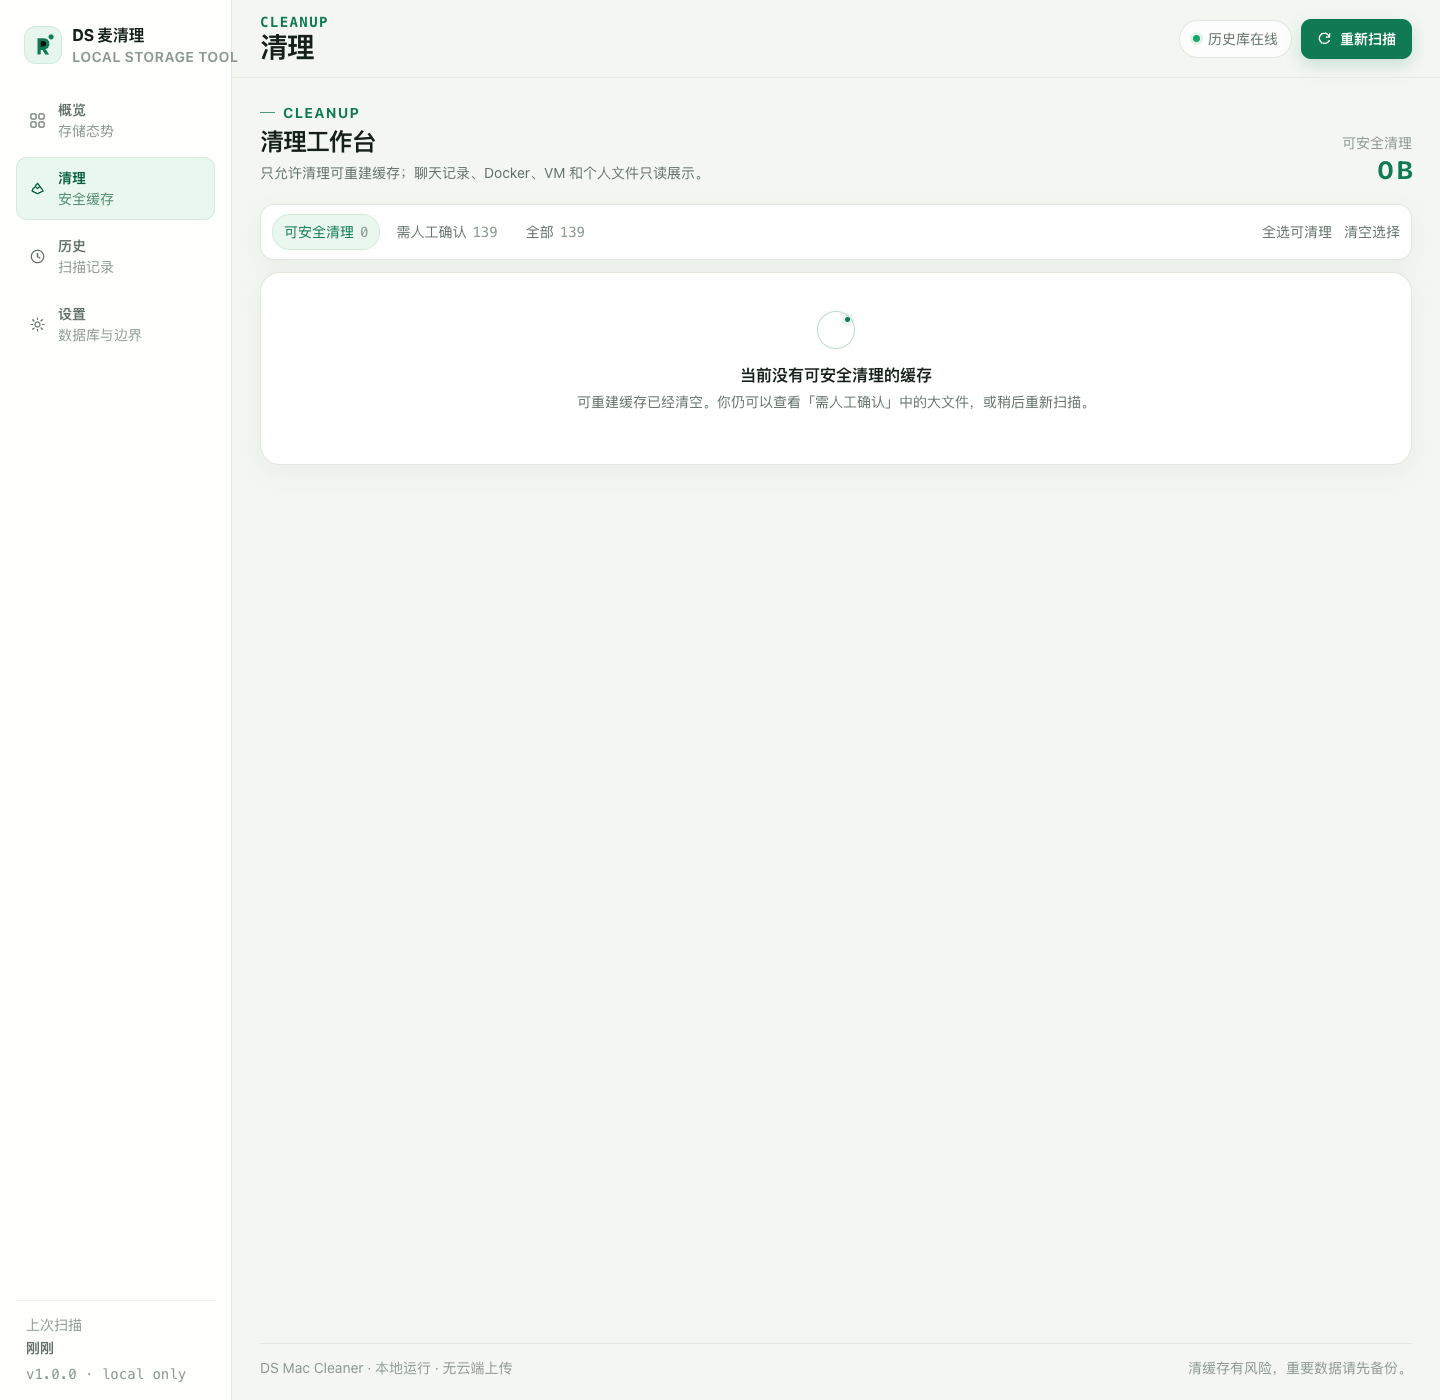
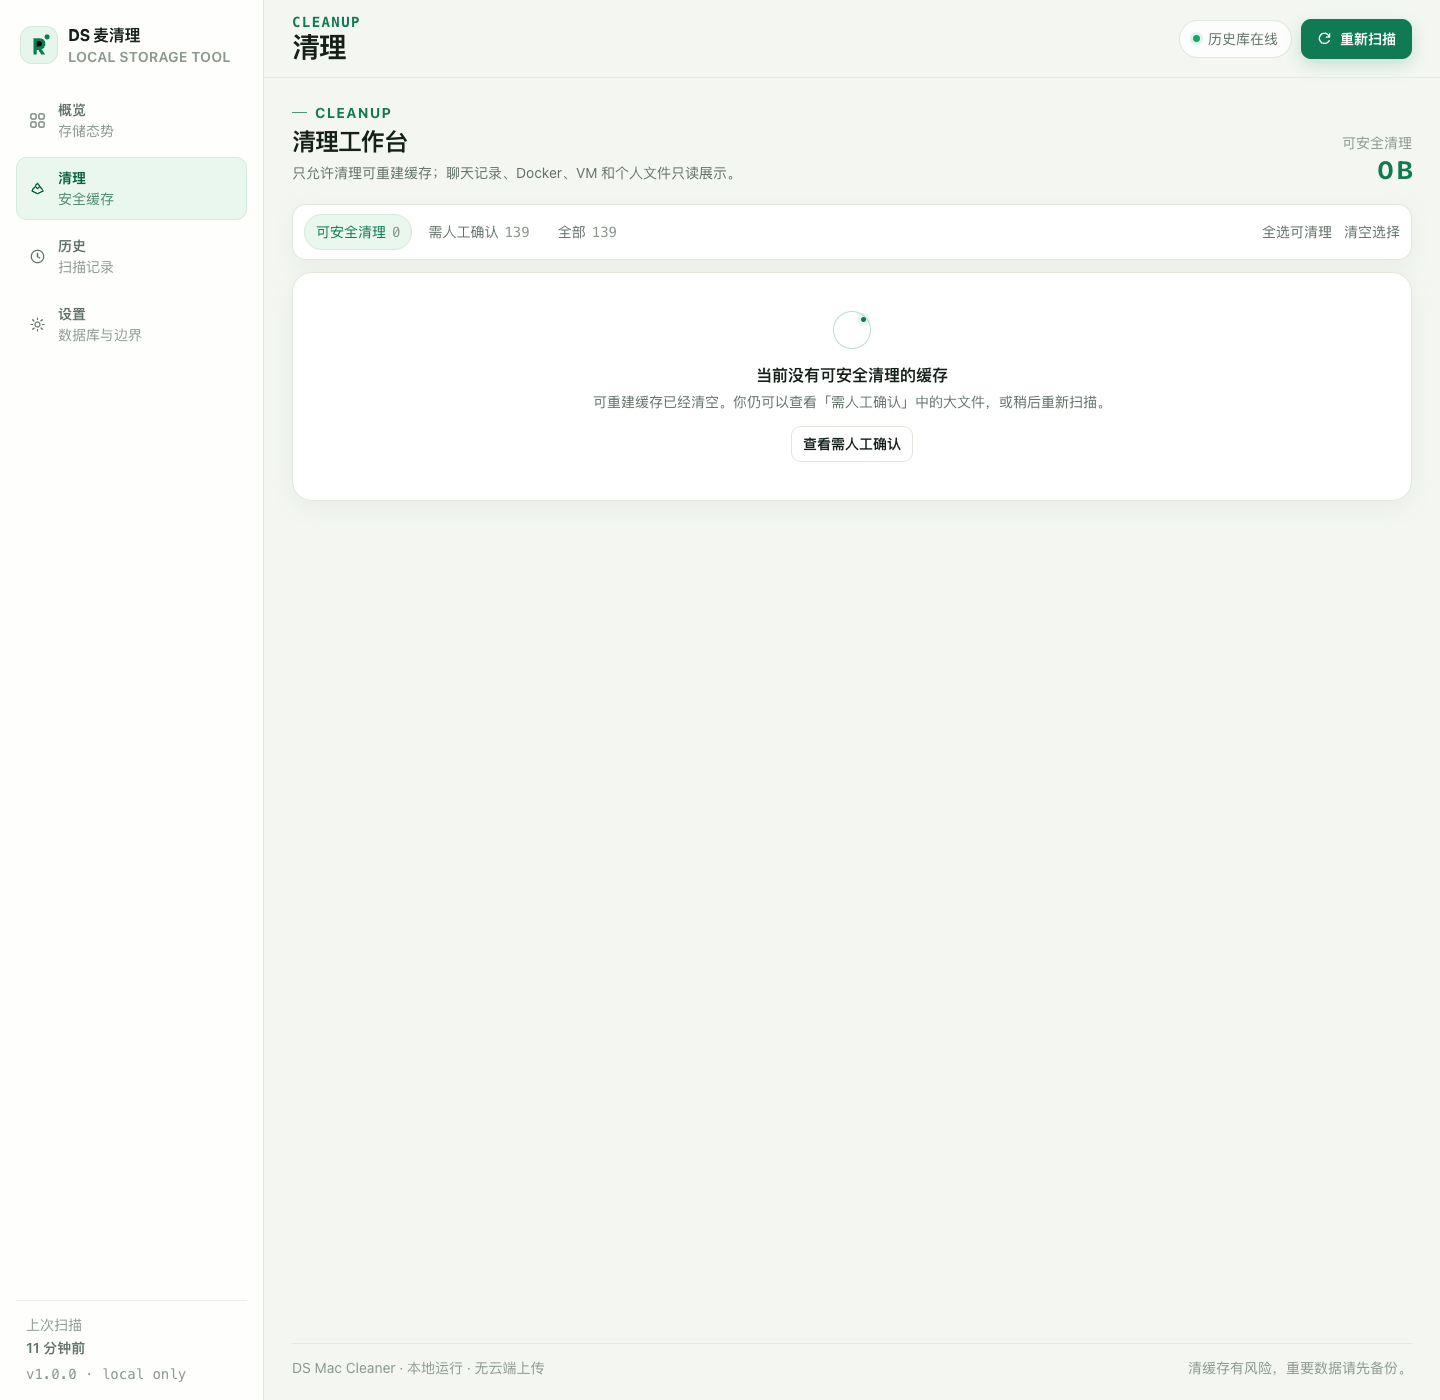
style: widen sidebar so the brand tagline fits

diff --git a/web/styles.css b/web/styles.css
@@ -55,7 +55,7 @@ a { color: inherit; text-decoration: none; }
   position: fixed;
   inset: 0 auto 0 0;
   z-index: 30;
-  width: 232px;
+  width: 264px;
   padding: 22px 16px 18px;
   display: flex;
   flex-direction: column;
@@ -63,7 +63,7 @@ a { color: inherit; text-decoration: none; }
   border-right: 1px solid var(--stroke);
   backdrop-filter: blur(16px);
 }
-.brand { display: flex; align-items: center; gap: 10px; padding: 2px 8px 24px; }
+.brand { display: flex; align-items: center; gap: 10px; padding: 2px 4px 24px; }
 .brand-mark {
   width: 38px; height: 38px;
   display: grid; place-items: center;
@@ -74,9 +74,9 @@ a { color: inherit; text-decoration: none; }
   flex: none;
 }
 .brand-mark svg { width: 27px; height: 27px; }
-.brand-copy { display: flex; flex-direction: column; gap: 2px; min-width: 0; }
-.brand-copy strong { font-size: 16px; font-weight: 750; letter-spacing: -.02em; white-space: nowrap; }
-.brand-copy span { font-size: 14px; letter-spacing: .03em; color: var(--faint); font-weight: 650; white-space: nowrap; }
+.brand-copy { display: flex; flex-direction: column; gap: 2px; min-width: 0; overflow: hidden; }
+.brand-copy strong { font-size: 16px; font-weight: 750; letter-spacing: -.02em; white-space: nowrap; overflow: hidden; text-overflow: ellipsis; }
+.brand-copy span { font-size: 14px; letter-spacing: .015em; color: var(--faint); font-weight: 650; white-space: nowrap; overflow: hidden; text-overflow: ellipsis; }
 .side-nav { display: flex; flex-direction: column; gap: 5px; }
 .nav-item {
   display: flex;
@@ -102,7 +102,7 @@ a { color: inherit; text-decoration: none; }
 .sidebar-version { font-family: var(--mono); font-size: 14px; color: var(--faint); }
 
 .app-frame {
-  margin-left: 232px;
+  margin-left: 264px;
   min-height: 100vh;
   display: flex;
   flex-direction: column;
@@ -112,7 +112,7 @@ a { color: inherit; text-decoration: none; }
   top: 0;
   z-index: 20;
   min-height: 78px;
-  padding: 14px max(28px, calc((100vw - 232px - 1180px) / 2));
+  padding: 14px max(28px, calc((100vw - 264px - 1180px) / 2));
   display: flex;
   align-items: center;
   justify-content: space-between;
